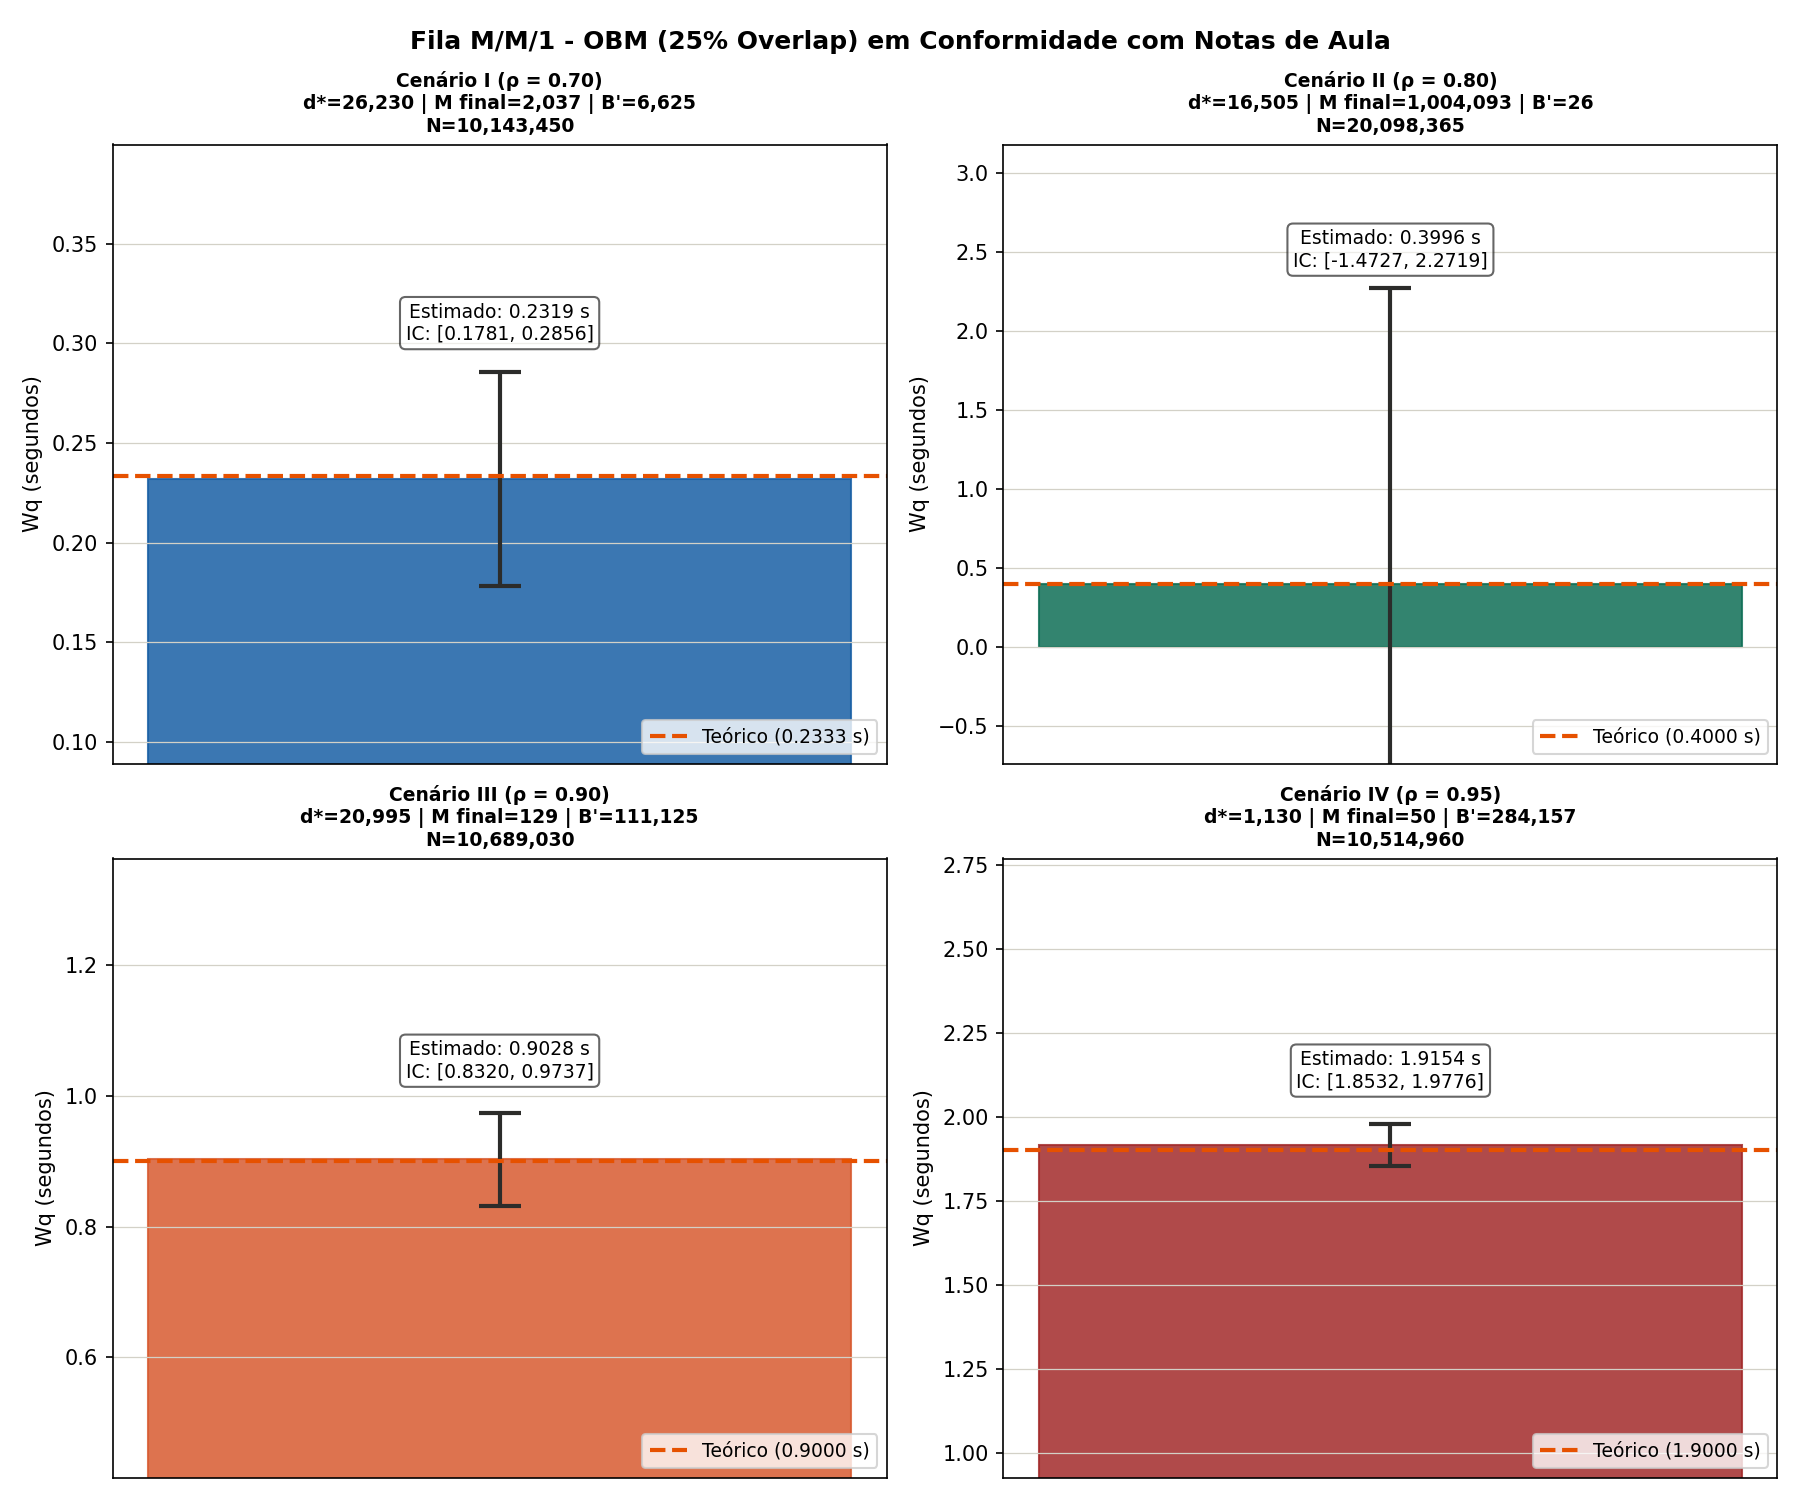
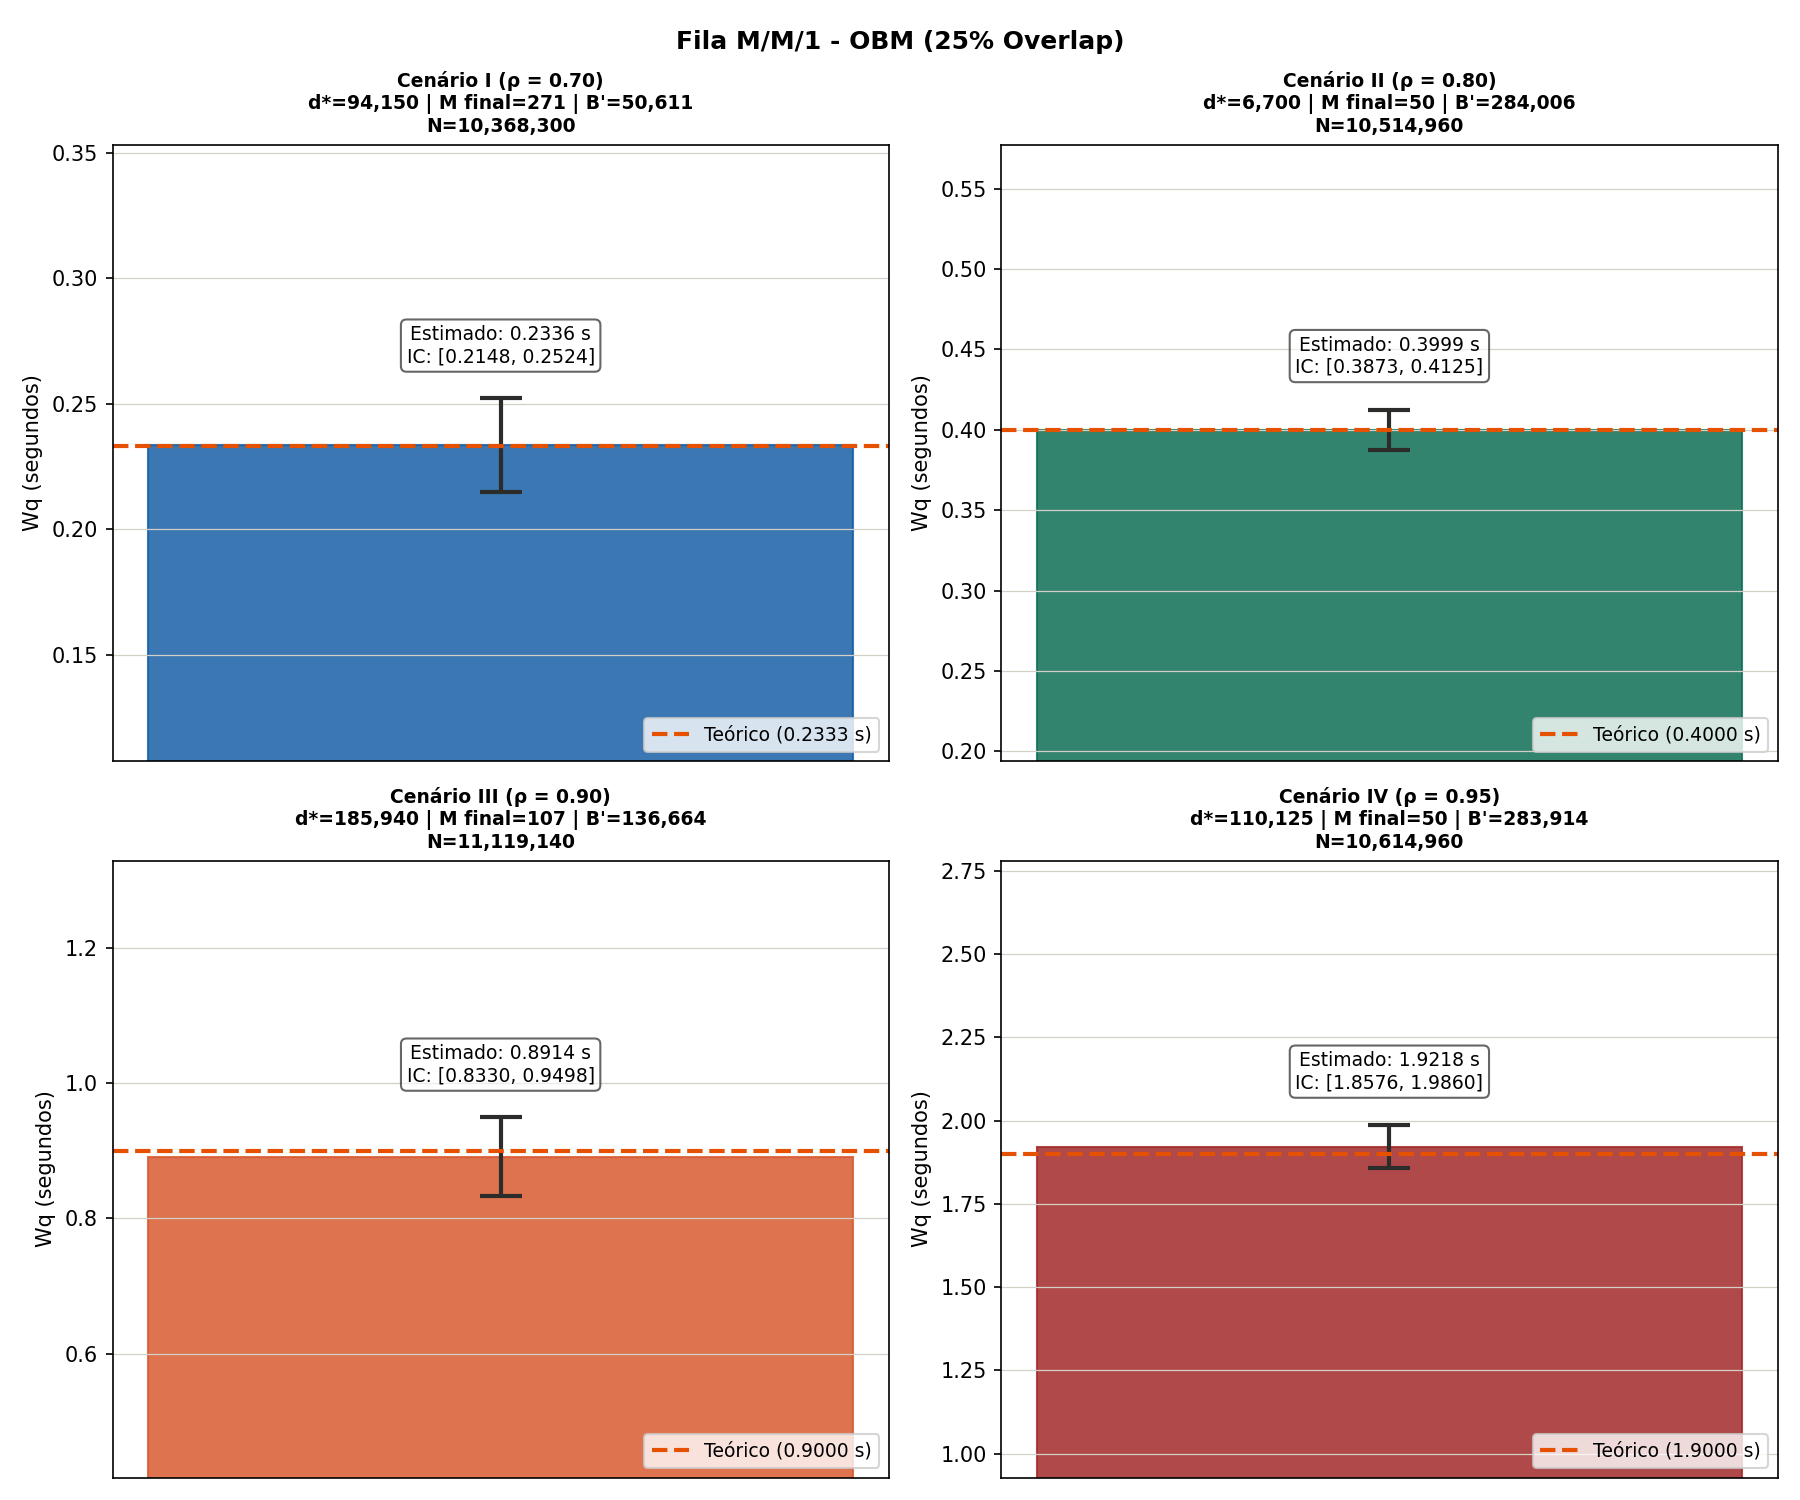
fix: correção dos gráficos

diff --git a/questao9.py b/questao9.py
@@ -285,7 +285,7 @@ for rotulo, lista_res in mapeamento_resultados.items():
         ax.legend(loc="lower right", fontsize=9)
 
     nome_arquivo = os.path.join(DIR, f"grafico_obm_overlap_{rotulo.replace('%','')}.png")
-    plt.suptitle(f"Fila M/M/1 - OBM ({rotulo} Overlap) em Conformidade com Notas de Aula", fontsize=12, fontweight='bold', y=0.98)
+    plt.suptitle(f"Fila M/M/1 - OBM ({rotulo} Overlap)", fontsize=12, fontweight='bold', y=0.98)
     plt.tight_layout()
     plt.savefig(nome_arquivo, dpi=150)
     plt.close()